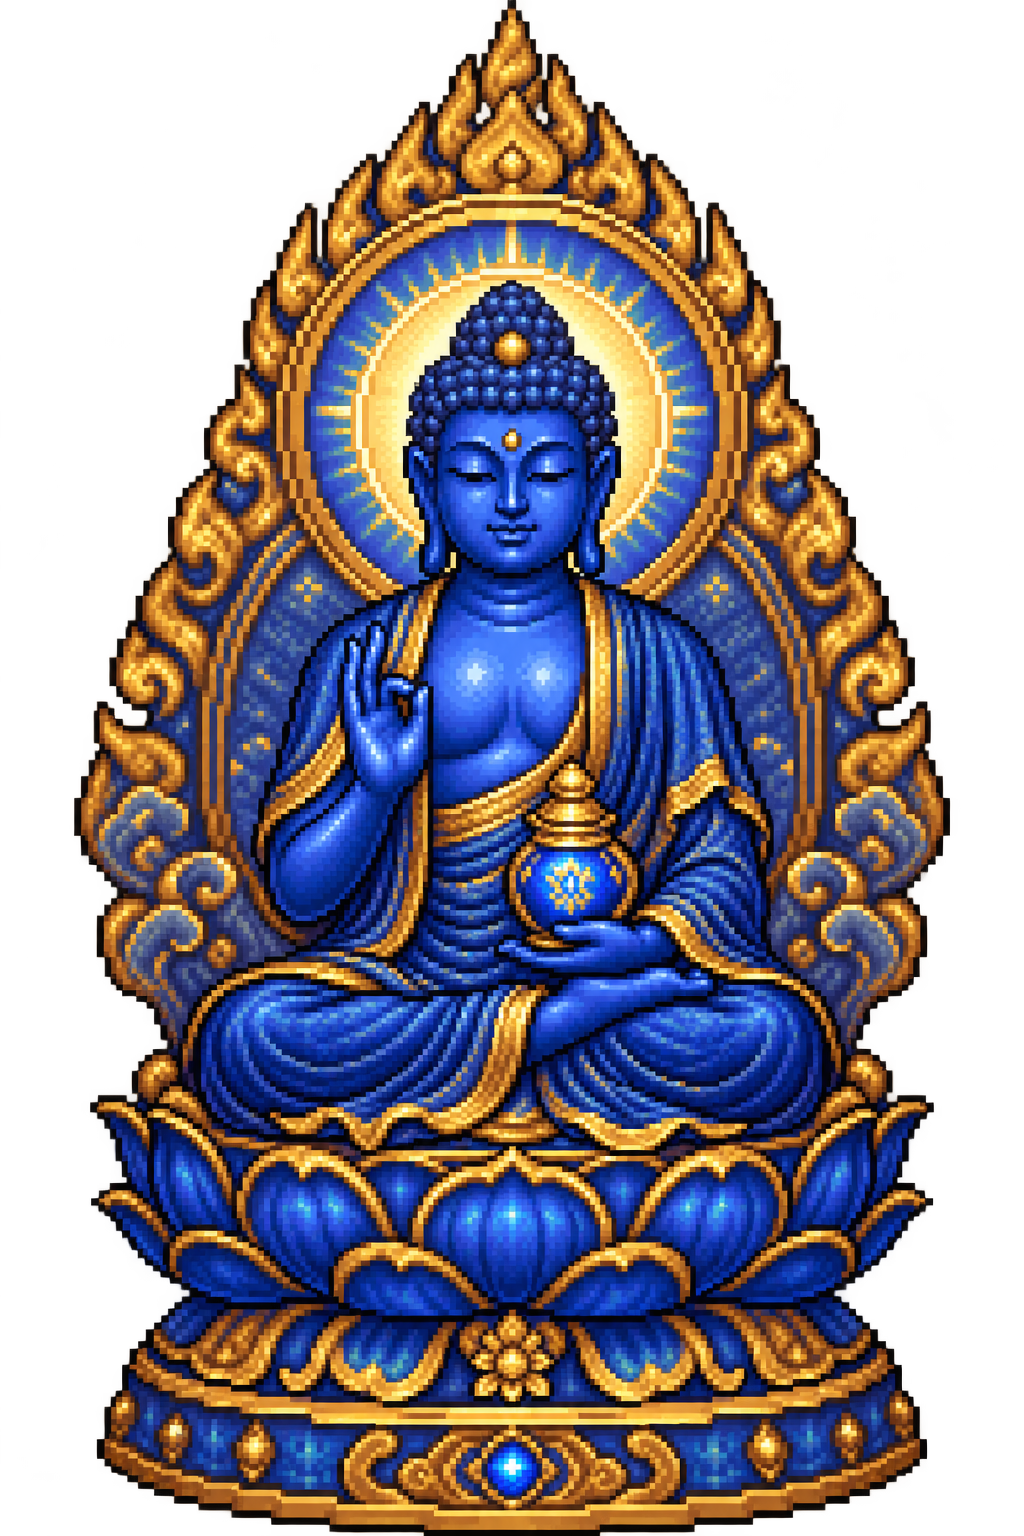
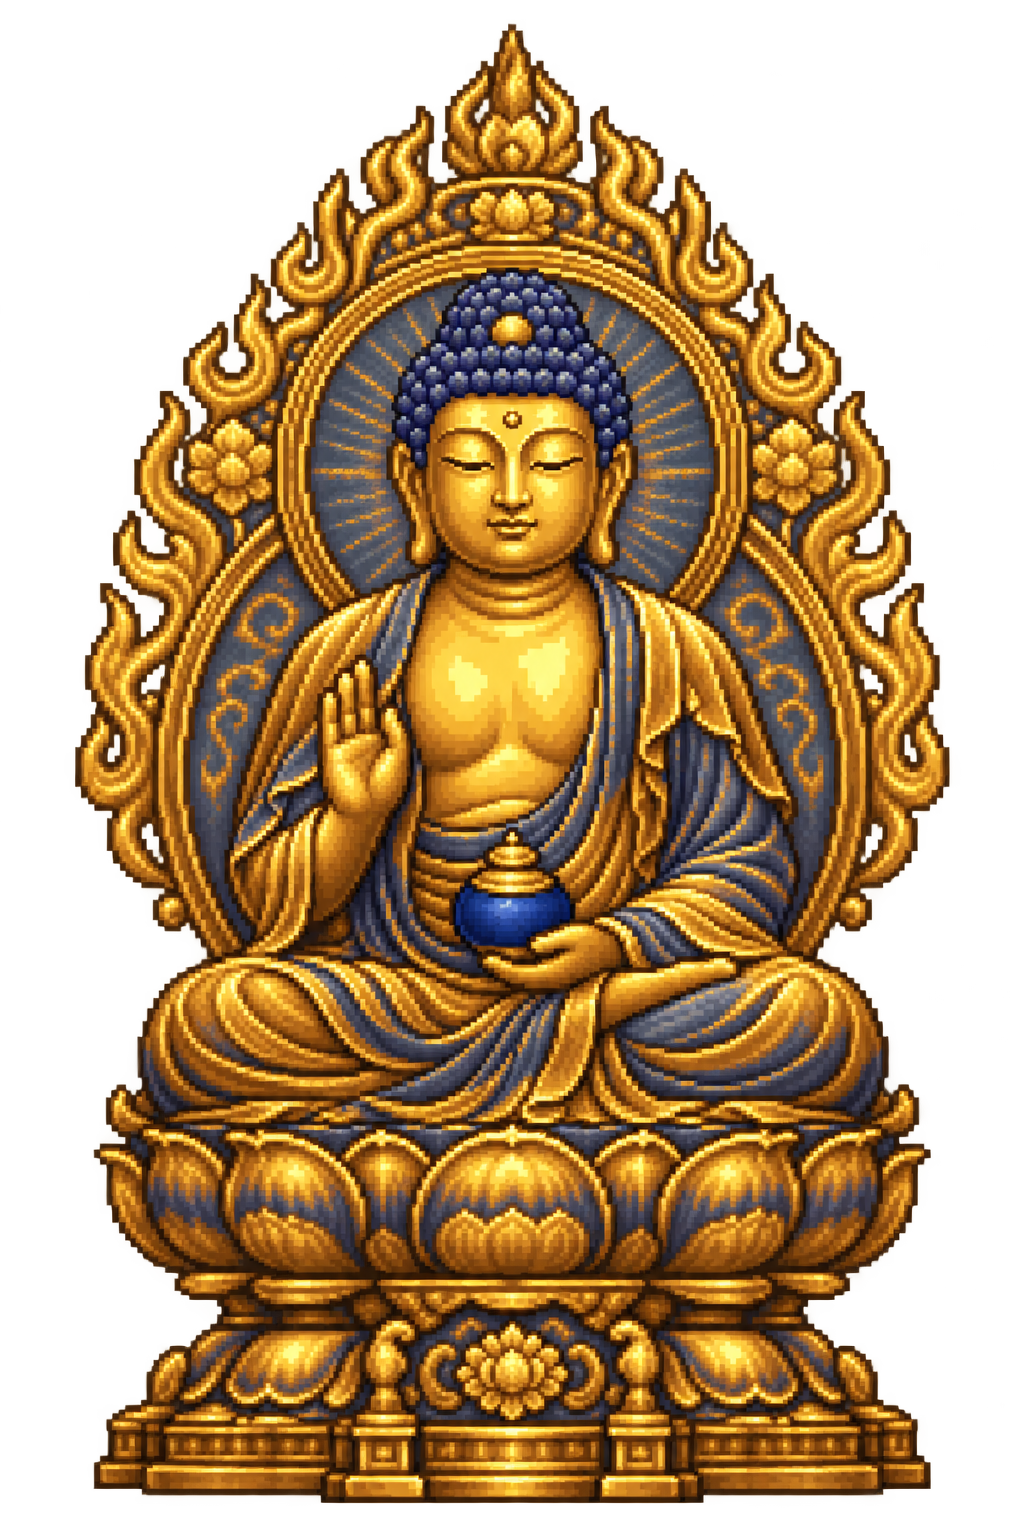
仏像セットをコミット

diff --git a/docs/未実装仕様書/monster-theme-sets.md b/docs/未実装仕様書/monster-theme-sets.md
@@ -367,28 +367,28 @@
 |------|------|---------|------|
 | S_S_S | だいにちにょらい | 大日如来 | 宇宙の真理そのもの。全ての仏の頂点に立つ智慧の光。目を閉じたまま世界の全てを照らす、究極の悟りの姿。 |
 | S_S_St | あいぜんみょうおう | 愛染明王 | 三つ目に六本の腕、怒りの表情だが本質は愛。煩悩を悟りに変える智慧の炎を操る。弓矢で迷いを射抜く。 |
-| S_S_L | きちじょうてん | 吉祥天 | 美と幸福と智慧を司る天女。蓮の上に立ち、如意宝珠から光を放って人々に福徳を授ける。 |
-| S_St_S | たもんてん | 多聞天（毘沙門天の別名） | 全てを聞き知る北方の守護神。宝塔に蓄えた知恵と、邪鬼を踏みつける武力で四天王最強の座を誇る。 |
+| S_S_L | こくうぞうぼさつ | 虚空蔵菩薩 | 虚空（宇宙）のように無限の知恵と慈悲を蔵する。明けの明星の化身とされ、全ての求める者に知恵を授ける。「こくうぞう」がたどり着いた本来の姿。 |
+| S_St_S | たいしゃくてん | 帝釈天 | 雷を操る神々の王。象に乗り、稲妻の武器で悪を打つ。韋駄天ゆずりの俊敏さに加え、あらゆる戦いの行方を見通す知恵を持つ、天界随一の知将。 |
 | S_St_St | ざおうごんげん | 蔵王権現 | 片足を高く上げた忿怒の姿。山岳修行の極致で得た知恵と、岩をも砕く力を兼ね備える。修験道の守護神。 |
-| S_St_L | やくしにょらい | 薬師如来 | 十二の大願を立て、あらゆる病苦を癒す医王。左手の薬壺には万病に効く薬が入っている。瑠璃色に光る体。 |
+| S_St_L | きちじょうてん | 吉祥天 | 美と幸福と智慧を司る天女。蓮の上に立ち、如意宝珠から光を放って人々に福徳を授ける。 |
 | S_L_S | もんじゅぼさつ | 文殊菩薩 | 獅子に乗り、右手に智慧の剣を持つ。あらゆる疑問を一刀両断する。「三人寄れば文殊の知恵」の由来となった究極の知恵者。 |
 | S_L_St | まりしてん | 摩利支天 | 陽炎の神。姿を消して戦い、猪に乗って駆ける。武士の守護神だが、本質は慈悲の光で人を守ること。 |
-| S_L_L | こくうぞうぼさつ | 虚空蔵菩薩 | 虚空（宇宙）のように無限の知恵と慈悲を蔵する。明けの明星の化身とされ、全ての求める者に知恵を授ける。 |
+| S_L_L | やくしにょらい | 薬師如来 | 十二の大願を立て、あらゆる病苦を癒す医王。左手の薬壺には万病に効く薬が入っている。瑠璃色に光る体。「やくし」が至った本来の姿。 |
 | St_S_S | だいいとくみょうおう | 大威徳明王 | 水牛に乗る六面六臂六足の明王。閻魔すら降伏させる智慧の怒り。文殊菩薩の化身とされる最強の知将。 |
-| St_S_St | こんごうりきし | 金剛力士 | 阿吽一対で完成する究極の門番。金剛杵を振るい、仏法を脅かす一切の敵を粉砕する。その拳は山をも砕く。 |
+| St_S_St | あしゅら | 阿修羅 | 三面六臂の戦いの神。かつては怒りに支配されたが、仏の教えで正義の守護者となった。六本の腕で全方位を守る究極の戦士。 |
 | St_S_L | じこくてん | 持国天 | 東方を守護する四天王の一。琵琶を奏でて国土を鎮め、音楽の知恵と武力で人々の生活を守る。 |
 | St_St_S | こうもくてん | 広目天 | 西方を守護する四天王の一。千里を見通す目と筆を持ち、見たもの全てを記録する。知恵ある武人。 |
-| St_St_St | あしゅら | 阿修羅 | 三面六臂の戦いの神。かつては怒りに支配されたが、仏の教えで正義の守護者となった。六本の腕で全方位を守る究極の戦士。 |
+| St_St_St | しゅうこんごうじん | 執金剛神 | 阿形と吽形が融合した究極の守護者。始まり（阿）と終わり（吽）を司り、全ての命の入口と出口を見守る。「におう」が阿吽一体となった真の姿。 |
 | St_St_L | ぞうちょうてん | 増長天 | 南方を守護する四天王の一。五穀豊穣をもたらす力を持ち、剣を振るって大地を守る。力強い慈悲の将。 |
-| St_L_S | びしゃもんてん | 毘沙門天 | 北方の守護神にして七福神の一。宝塔と三叉戟を持ち、知恵と武力と福徳を全て兼ね備えた理想の将軍。 |
+| St_L_S | ふげんぼさつ | 普賢菩薩 | 六牙の白象に乗る修行と慈悲の菩薩。あらゆる場所に現れて人々を救い、その行動力は無限。「ふげん」が至った本来の姿。 |
 | St_L_St | ふどうみょうおう | 不動明王 | 炎を背に岩の上に座す忿怒の王。右手の剣で煩悩を断ち、左手の羂索で迷える者を救い上げる。怒りの顔の裏に深い慈悲。 |
-| St_L_L | にお | 仁王（阿吽完全体） | 阿形と吽形が融合した究極の守護者。始まり（阿）と終わり（吽）を司り、全ての命の入口と出口を見守る。 |
+| St_L_L | ばとうかんのん | 馬頭観音 | 馬の頭を持つ忿怒の観音。優しい観音の中で唯一の怖い顔だが、それは弱い者や動物を守るため。荒々しい力で災いを食い尽くし、静かな慈悲で傷ついた心を癒す。 |
 | L_S_S | べんざいてん | 弁財天 | 琵琶を奏でる芸術と智慧の女神。水の流れのように柔軟な知恵で、あらゆる問題を解決する。七福神の紅一点。 |
 | L_S_St | えんまだいおう | 閻魔大王 | 冥界の裁判官。浄玻璃の鏡で全ての行いを映し、公正な裁きを下す。怖い顔だが、嘘つき以外には意外と優しい。 |
 | L_S_L | みろくぼさつ | 弥勒菩薩 | 半跏思惟の姿で56億7千万年後の救済を考え続ける。穏やかな微笑みの中に、全人類への慈悲が込められている。 |
 | L_St_S | だいこくてん | 大黒天 | 打出の小槌を持つ福の神。元はインドの戦闘神で、力と知恵で富を集め、惜しみなく分け与える。 |
 | L_St_St | こんがらどうじ | 矜羯羅童子 | 不動明王に仕える八大童子の一。穏やかな表情だが、師を守るときは鬼神のような力を発揮する。忠義の化身。 |
-| L_St_L | ふげんぼさつ | 普賢菩薩 | 六牙の白象に乗る修行と慈悲の菩薩。あらゆる場所に現れて人々を救い、その行動力は無限。女性の信仰も厚い。 |
+| L_St_L | じゅういちめんかんのん | 十一面観音 | 頭上に十一の顔を持ち、あらゆる方向から人々の願いを見逃さない観音。狛犬ゆずりの見張りの目を受け継ぎ、どんな小さな悲しみも見つけ出して救いの手を差し伸べる。 |
 | L_L_S | じぞうぼさつ | 地蔵菩薩 | 錫杖と如意宝珠を持ち、六道全てを巡って苦しむ者を救う。特に子供の守護者。閻魔の化身とも言われる。 |
 | L_L_St | えびすさま | 恵比寿 | 鯛を抱え釣竿を持つ福の神。唯一の日本生まれの七福神。笑顔で商売と豊漁を守り、正直者に福をもたらす。 |
 | L_L_L | せんじゅかんのん | 千手観音 | 千本の手で全ての命を救う究極の慈悲。一つ一つの手に目があり、苦しむ者を見逃さない。全ての苦を滅する楽園の守護者。 |
